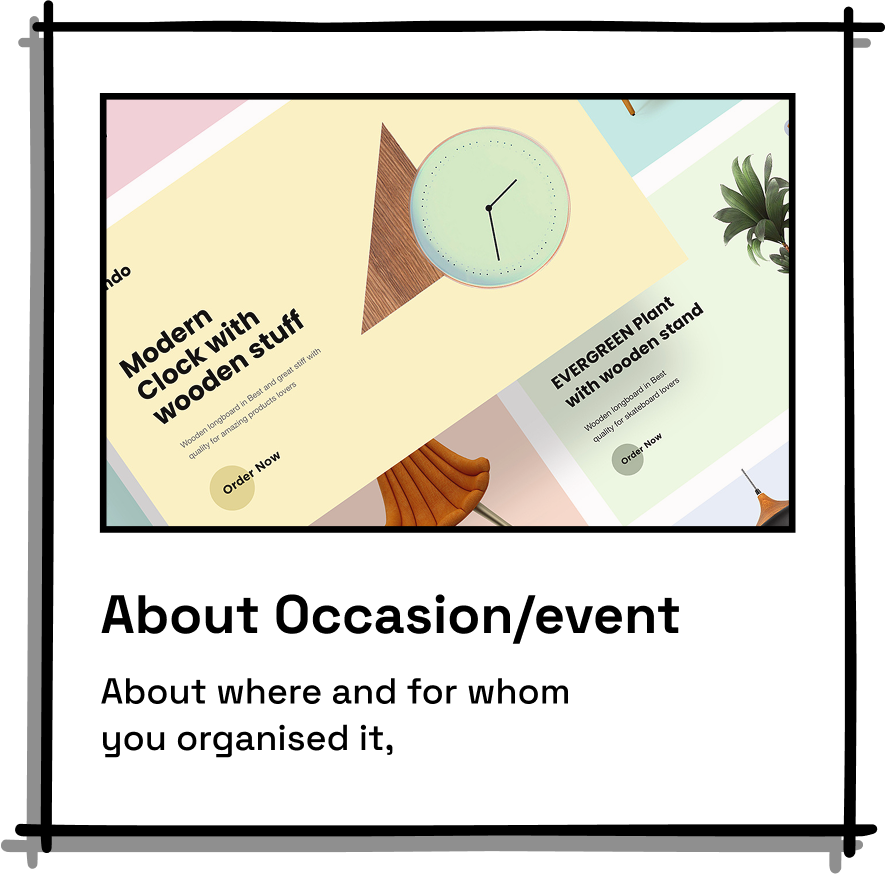
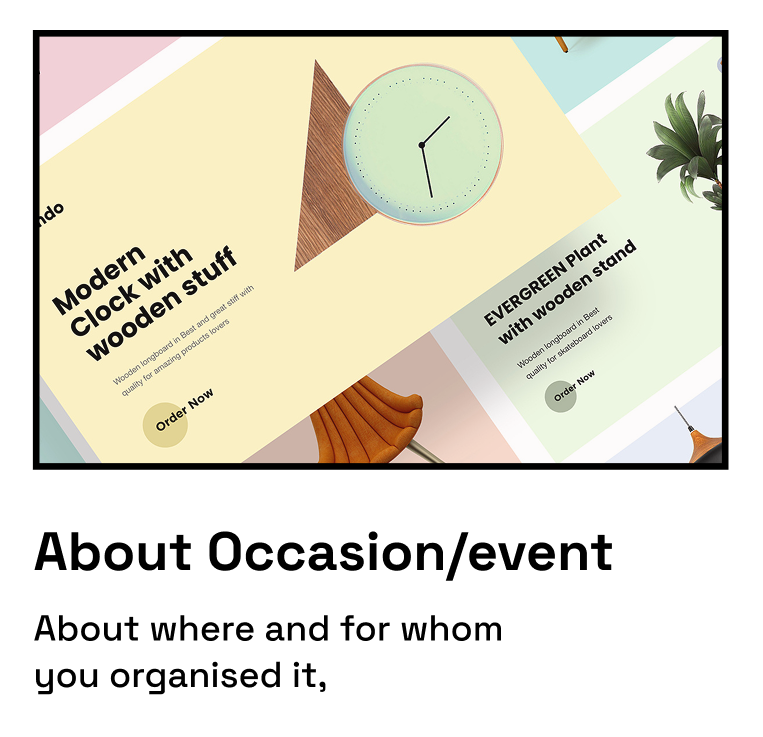
Updated cards

diff --git a/components/GlimpseCard.tsx b/components/GlimpseCard.tsx
@@ -1,21 +1,36 @@
-import React from 'react'
+import React from "react";
 
 interface GlimpseCardProps {
-    title: string;
-    description: string;
-    imgSrc: string;
+  title: string;
+  description: string;
+  imgSrc: string;
 }
 
-const GlimpseCard = ({title, description, imgSrc}: GlimpseCardProps) => {
+const GlimpseCard = ({ title, description, imgSrc }: GlimpseCardProps) => {
   return (
-    <div className='w-full max-w-[536px] min-h-[300px] md:h-[536px] bg-white border-1'>
-        <div className='w-full h-full flex flex-col items-center justify-center p-4'>
-            <img src={imgSrc} alt="Glimpse" className='w-full h-[200px] md:h-[55%] object-cover' />
-            <h2 className='text-xl md:text-[24px] font-bold mt-4'>{title}</h2>
-            <p className='text-sm md:text-[16px] mt-2 text-center'>{description}</p>
-        </div>
-    </div>
-  )
-}
+    <div className="box-border w-full max-w-[536px] min-h-[300px] bg-white border-1 mb-8 mx-auto">
+      <div className="w-full h-full flex flex-col items-center p-4 relative">
+        {/* Border elements */}
+        <div className="w-full h-[4px] rounded-2xl bg-black absolute top-0"></div>
+        <div className="w-[4px] h-full rounded-2xl bg-black absolute left-0 -top-3"></div>
+        <div className="w-[4px] h-full rounded-2xl bg-black absolute right-0 -top-3"></div>
+        <div className="w-full h-[4px] rounded-2xl bg-black absolute bottom-0"></div>
 
-export default GlimpseCard
+        {/* Image */}
+        <img
+          src={imgSrc}
+          alt="Glimpse"
+          className="w-full max-w-[463px] h-[200px] sm:h-[250px] md:h-[350px] object-cover border-2"
+        />
+
+        {/* Content */}
+        <div className="w-full max-w-[90%] py-4 flex flex-col items-start justify-center">
+          <h2 className="text-lg sm:text-xl md:text-2xl lg:text-[36px] font-bold">{title}</h2>
+          <p className="text-sm sm:text-base md:text-lg lg:text-[24px] mt-2">{description}</p>
+        </div>
+      </div>
+    </div>
+  );
+};
+
+export default GlimpseCard;

diff --git a/components/GlimpseCards.tsx b/components/GlimpseCards.tsx
@@ -10,17 +10,17 @@ interface GlimpseCardData {
 
 const GlimpseCards: React.FC = () => {
   const glimpseCards: GlimpseCardData[] = [
-    { id: 1, title: "Card 1", description: "Description 1", imgSrc: "/glimpse.png" },
-        { id: 2, title: "Card 2", description: "Description 2", imgSrc: "/glimpse.png" },
-        { id: 3, title: "Card 3", description: "Description 3", imgSrc: "/glimpse.png" },
-        { id: 4, title: "Card 4", description: "Description 4", imgSrc: "/glimpse.png" },
-        { id: 5, title: "Card 5", description: "Description 5", imgSrc: "/glimpse.png" },
-        { id: 6, title: "Card 6", description: "Description 6", imgSrc: "/glimpse.png" },
+    { id: 1, title: "About Occasion/Event", description: "About where and for whom you organised it", imgSrc: "/glimpse.png" },
+        { id: 2, title: "About Occasion/Event", description: "About where and for whom you organised it", imgSrc: "/glimpse.png" },
+        { id: 3, title: "About Occasion/Event", description: "About where and for whom you organised it", imgSrc: "/glimpse.png" },
+        { id: 4, title: "About Occasion/Event", description: "About where and for whom you organised it", imgSrc: "/glimpse.png" },
+        { id: 5, title: "About Occasion/Event", description: "About where and for whom you organised it", imgSrc: "/glimpse.png" },
+        { id: 6, title: "About Occasion/Event", description: "About where and for whom you organised it", imgSrc: "/glimpse.png" },
   ];
   return (
-    <div className="flex items-center justify-center w-[100vw] max-w-[1251px] mx-auto mt-10 px-4 lg:px-0">
-      <div className="grid grid-cols-1 sm:grid-cols-2 gap-4 md:gap-6 w-full max-w-[800px]">
-        {glimpseCards.map((card) => (
+    <div className="flex gap-4 w-[100vw] max-w-[1251px] mx-auto mt-10 px-4 lg:px-0">
+<div className="grid grid-cols-1 sm:grid-cols-2 gap-4 gap-y-6 md:gap-6 w-full justify-items-center">
+{glimpseCards.map((card) => (
           <GlimpseCard
             key={card.id}
             title={card.title}
